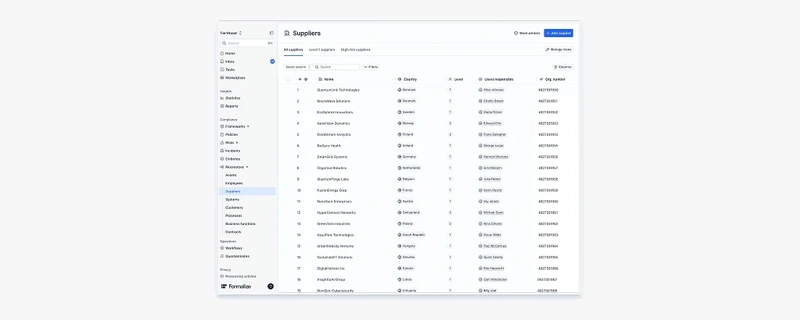
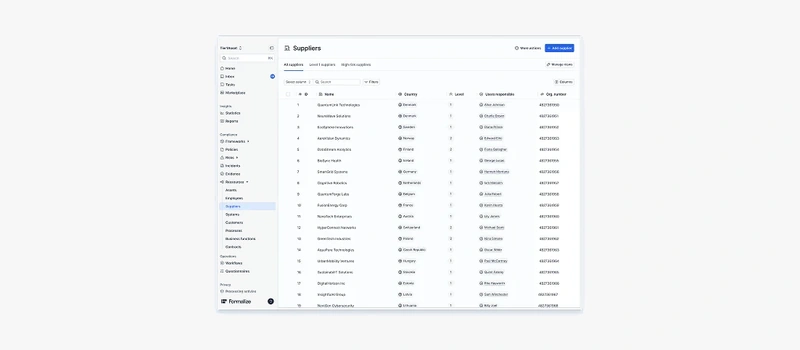
v2: more room around the journey art, and a border on the UI cards
The journey plates go from an 800x320 canvas to 800x350 with the fill dropped
to match — the artwork is the same 282px it already was, so only the room
around it changes. The tightest cards go from 10px above and below to 18, and
every card stays symmetric.

The UI cards get a hairline. --surface on a white page is an 8-level
difference and effectively no edge at all, and these captures are
white-grounded, so the UI ran straight into the page with nothing to stop it.

Changed region(s): [[0.25, 0.0625, 0.7188, 0.9375], [0.5, 0.2188, 0.5312, 0.4688]]

diff --git a/v2.html b/v2.html
@@ -12,7 +12,7 @@
 <meta name="description" content="Product design and product strategy, hands-on. 15 years in design, 8 of them leading teams.">
 <link rel="preconnect" href="https://api.fontshare.com" crossorigin>
 <link rel="stylesheet" href="https://api.fontshare.com/v2/css?f[]=general-sans@400,500,600&display=swap">
-<link rel="stylesheet" href="v2.css?v=206">
+<link rel="stylesheet" href="v2.css?v=208">
 </head>
 <body>
 <script>
@@ -1209,7 +1209,7 @@
           <div class="cm-car__track" id="cm-f2-track">
             <div class="cm-car__col cm-car__col--narrow">
               <div class="cm-car__text-card cm-car__text-card--result cm-car__text-card--flush">
-                <div class="cm-car__card-img"><div class="cm-skeleton"></div><img decoding="async" src="public/images/formalize/formalize-journey-01-mono.webp" alt="" onload="this.style.opacity='1';this.previousElementSibling.classList.add('is-done');" style="opacity:0; transition:opacity 0.35s ease" loading="lazy" width="800" height="320"></div>
+                <div class="cm-car__card-img"><div class="cm-skeleton"></div><img decoding="async" src="public/images/formalize/formalize-journey-01-mono.webp" alt="" onload="this.style.opacity='1';this.previousElementSibling.classList.add('is-done');" style="opacity:0; transition:opacity 0.35s ease" loading="lazy" width="800" height="350"></div>
                 <div class="cm-car__card-body-wrap">
                   <p class="cm-car__card-num">01</p>
                   <p class="cm-car__card-title">Built the design function from 0</p>
@@ -1219,7 +1219,7 @@
             </div>
             <div class="cm-car__col cm-car__col--narrow">
               <div class="cm-car__text-card cm-car__text-card--result cm-car__text-card--flush">
-                <div class="cm-car__card-img"><div class="cm-skeleton"></div><img decoding="async" src="public/images/formalize/formalize-journey-02-mono.webp" alt="" onload="this.style.opacity='1';this.previousElementSibling.classList.add('is-done');" style="opacity:0; transition:opacity 0.35s ease" loading="lazy" width="800" height="320"></div>
+                <div class="cm-car__card-img"><div class="cm-skeleton"></div><img decoding="async" src="public/images/formalize/formalize-journey-02-mono.webp" alt="" onload="this.style.opacity='1';this.previousElementSibling.classList.add('is-done');" style="opacity:0; transition:opacity 0.35s ease" loading="lazy" width="800" height="350"></div>
                 <div class="cm-car__card-body-wrap">
                   <p class="cm-car__card-num">02</p>
                   <p class="cm-car__card-title">Hired a standout team of 4</p>
@@ -1229,7 +1229,7 @@
             </div>
             <div class="cm-car__col cm-car__col--narrow">
               <div class="cm-car__text-card cm-car__text-card--result cm-car__text-card--flush">
-                <div class="cm-car__card-img"><div class="cm-skeleton"></div><img decoding="async" src="public/images/formalize/formalize-journey-03-mono.webp" alt="" onload="this.style.opacity='1';this.previousElementSibling.classList.add('is-done');" style="opacity:0; transition:opacity 0.35s ease" loading="lazy" width="800" height="320"></div>
+                <div class="cm-car__card-img"><div class="cm-skeleton"></div><img decoding="async" src="public/images/formalize/formalize-journey-03-mono.webp" alt="" onload="this.style.opacity='1';this.previousElementSibling.classList.add('is-done');" style="opacity:0; transition:opacity 0.35s ease" loading="lazy" width="800" height="350"></div>
                 <div class="cm-car__card-body-wrap">
                   <p class="cm-car__card-num">03</p>
                   <p class="cm-car__card-title">Triads in every product team</p>
@@ -1239,7 +1239,7 @@
             </div>
             <div class="cm-car__col cm-car__col--narrow">
               <div class="cm-car__text-card cm-car__text-card--result cm-car__text-card--flush">
-                <div class="cm-car__card-img"><div class="cm-skeleton"></div><img decoding="async" src="public/images/formalize/formalize-journey-04-mono.webp" alt="" onload="this.style.opacity='1';this.previousElementSibling.classList.add('is-done');" style="opacity:0; transition:opacity 0.35s ease" loading="lazy" width="800" height="320"></div>
+                <div class="cm-car__card-img"><div class="cm-skeleton"></div><img decoding="async" src="public/images/formalize/formalize-journey-04-mono.webp" alt="" onload="this.style.opacity='1';this.previousElementSibling.classList.add('is-done');" style="opacity:0; transition:opacity 0.35s ease" loading="lazy" width="800" height="350"></div>
                 <div class="cm-car__card-body-wrap">
                   <p class="cm-car__card-num">04</p>
                   <p class="cm-car__card-title">Won buy-in for a design refresh</p>
@@ -1249,7 +1249,7 @@
             </div>
             <div class="cm-car__col cm-car__col--narrow">
               <div class="cm-car__text-card cm-car__text-card--result cm-car__text-card--flush">
-                <div class="cm-car__card-img"><div class="cm-skeleton"></div><img decoding="async" src="public/images/formalize/formalize-journey-05-mono.webp" alt="" onload="this.style.opacity='1';this.previousElementSibling.classList.add('is-done');" style="opacity:0; transition:opacity 0.35s ease" loading="lazy" width="800" height="320"></div>
+                <div class="cm-car__card-img"><div class="cm-skeleton"></div><img decoding="async" src="public/images/formalize/formalize-journey-05-mono.webp" alt="" onload="this.style.opacity='1';this.previousElementSibling.classList.add('is-done');" style="opacity:0; transition:opacity 0.35s ease" loading="lazy" width="800" height="350"></div>
                 <div class="cm-car__card-body-wrap">
                   <p class="cm-car__card-num">05</p>
                   <p class="cm-car__card-title">A design system, built with engineering</p>
@@ -1259,7 +1259,7 @@
             </div>
             <div class="cm-car__col cm-car__col--narrow">
               <div class="cm-car__text-card cm-car__text-card--result cm-car__text-card--flush">
-                <div class="cm-car__card-img"><div class="cm-skeleton"></div><img decoding="async" src="public/images/formalize/formalize-journey-06-mono.webp" alt="" onload="this.style.opacity='1';this.previousElementSibling.classList.add('is-done');" style="opacity:0; transition:opacity 0.35s ease" loading="lazy" width="800" height="320"></div>
+                <div class="cm-car__card-img"><div class="cm-skeleton"></div><img decoding="async" src="public/images/formalize/formalize-journey-06-mono.webp" alt="" onload="this.style.opacity='1';this.previousElementSibling.classList.add('is-done');" style="opacity:0; transition:opacity 0.35s ease" loading="lazy" width="800" height="350"></div>
                 <div class="cm-car__card-body-wrap">
                   <p class="cm-car__card-num">06</p>
                   <p class="cm-car__card-title">A clear vision for the platform</p>
@@ -1636,6 +1636,6 @@
   </svg>
 </button>
 
-<script src="v2.js?v=206"></script>
+<script src="v2.js?v=208"></script>
 </body>
 </html>

diff --git a/v2.css b/v2.css
@@ -1509,7 +1509,7 @@ a { color: inherit; text-decoration: none; }
    sides, which is the only way the two can actually match: one of them is
    inside the image and cannot be reached from here. */
 .cm-car__text-card--flush .cm-car__card-body-wrap { padding-top: 0; }
-.cm-car__text-card--flush .cm-car__card-img { aspect-ratio: 800 / 320; }
+.cm-car__text-card--flush .cm-car__card-img { aspect-ratio: 800 / 350; }
 .cm-car__card-num { font-size: 13px; color: var(--ink-55); margin: 0 0 10px; font-variant-numeric: tabular-nums; }
 .cm-car__card-title { font-size: 18px; font-weight: 500; letter-spacing: -0.02em; margin: 0 0 8px; color: var(--ink); }
 .cm-car__card-body { font-size: 15px; line-height: 1.55; color: var(--ink-55); margin: 0; }
@@ -1722,6 +1722,10 @@ a { color: inherit; text-decoration: none; }
   overflow: hidden;
   border-radius: 16px;
   background: var(--surface);
+  /* The card is --surface on a white page, which is a 8-level difference and
+     effectively no edge at all. The captures are white-grounded, so without a
+     line the UI ran straight into the page. */
+  border: var(--rule) solid var(--line);
 }
 /* Centred horizontally and pinned by percentage from the top, at a width that
    leaves an even margin either side. A capture taller than its card runs past

diff --git a/v2-maersk.html b/v2-maersk.html
@@ -12,7 +12,7 @@
 <meta name="description" content="Taking design from an afterthought to a strategic function across one of the world's largest logistics platforms.">
 <link rel="preconnect" href="https://api.fontshare.com" crossorigin>
 <link rel="stylesheet" href="https://api.fontshare.com/v2/css?f[]=general-sans@400,500,600&display=swap">
-<link rel="stylesheet" href="v2.css?v=206">
+<link rel="stylesheet" href="v2.css?v=208">
 </head>
 <body>
 <script>
@@ -163,6 +163,6 @@
   <a class="foot__mail rise" style="--d:140ms" href="mailto:hello@mikkelkoster.com">hello@mikkelkoster.com</a>
 </footer>
 
-<script src="v2.js?v=206"></script>
+<script src="v2.js?v=208"></script>
 </body>
 </html>

diff --git a/v2-matas.html b/v2-matas.html
@@ -12,7 +12,7 @@
 <meta name="description" content="Rebuilding Denmark's largest loyalty club around what members actually wanted.">
 <link rel="preconnect" href="https://api.fontshare.com" crossorigin>
 <link rel="stylesheet" href="https://api.fontshare.com/v2/css?f[]=general-sans@400,500,600&display=swap">
-<link rel="stylesheet" href="v2.css?v=206">
+<link rel="stylesheet" href="v2.css?v=208">
 </head>
 <body>
 <script>
@@ -164,6 +164,6 @@
   <a class="foot__mail rise" style="--d:140ms" href="mailto:hello@mikkelkoster.com">hello@mikkelkoster.com</a>
 </footer>
 
-<script src="v2.js?v=206"></script>
+<script src="v2.js?v=208"></script>
 </body>
 </html>

diff --git a/v2-formalize.html b/v2-formalize.html
@@ -12,7 +12,7 @@
 <meta name="description" content="Building the design function from zero at a hyper-growth compliance startup.">
 <link rel="preconnect" href="https://api.fontshare.com" crossorigin>
 <link rel="stylesheet" href="https://api.fontshare.com/v2/css?f[]=general-sans@400,500,600&display=swap">
-<link rel="stylesheet" href="v2.css?v=206">
+<link rel="stylesheet" href="v2.css?v=208">
 </head>
 <body>
 <script>
@@ -163,6 +163,6 @@
   <a class="foot__mail rise" style="--d:140ms" href="mailto:hello@mikkelkoster.com">hello@mikkelkoster.com</a>
 </footer>
 
-<script src="v2.js?v=206"></script>
+<script src="v2.js?v=208"></script>
 </body>
 </html>
